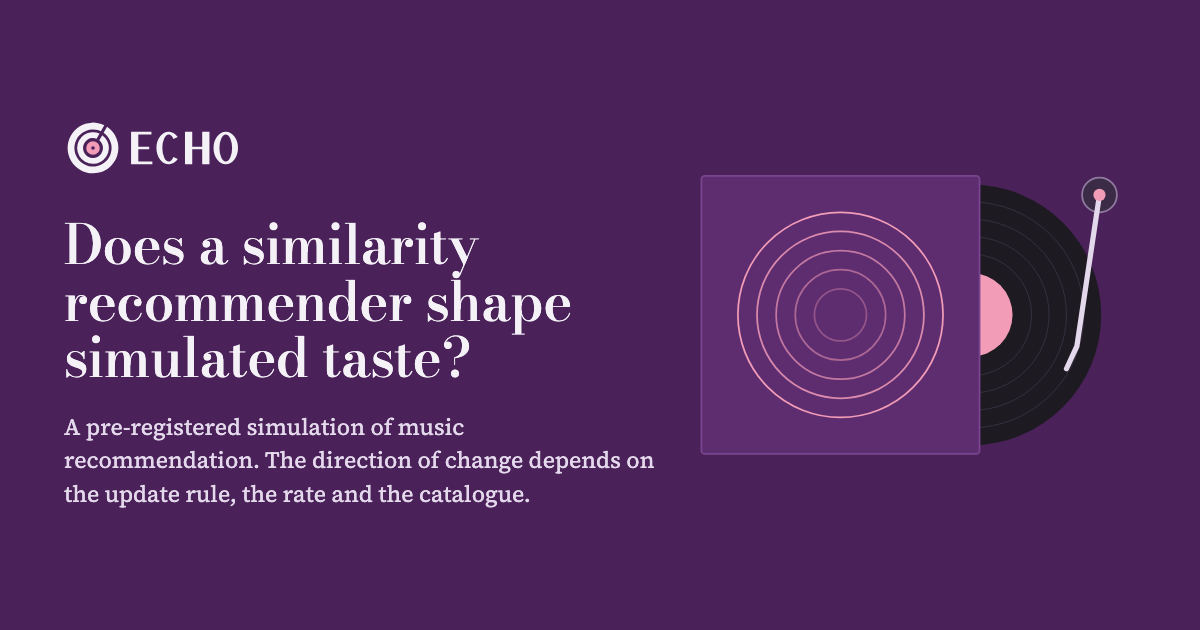
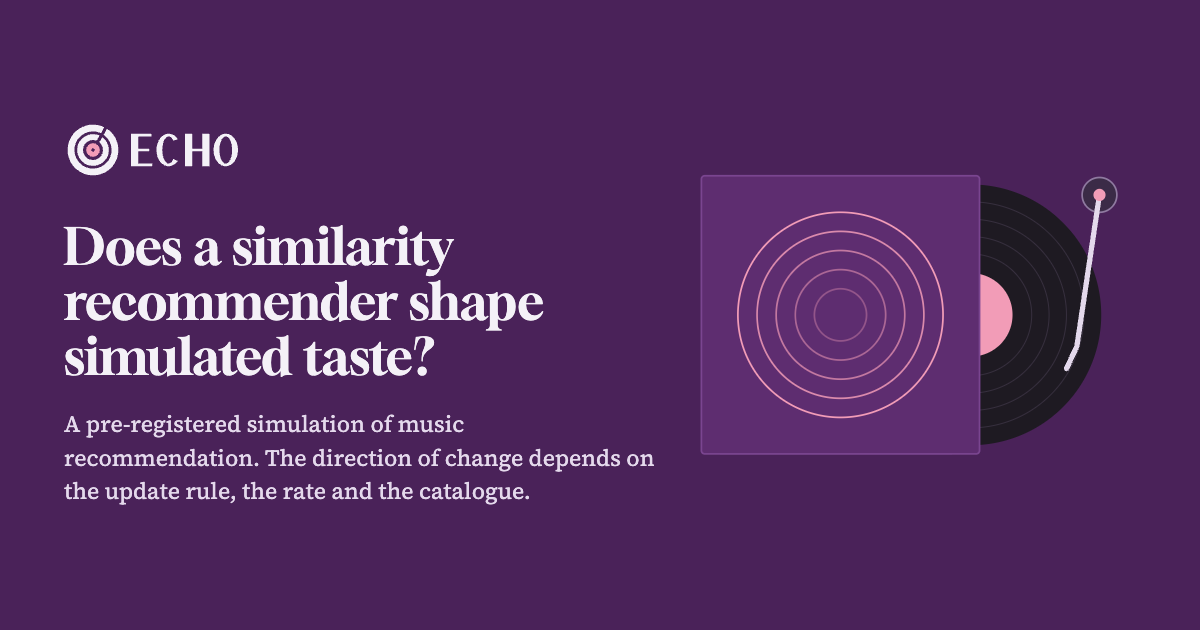
Demo: unique typeface pair across the labs (owner request 2026-11-26)

Changed region(s): [[0.0617, 0.3317, 0.4625, 0.6032], [0.0308, 0.6635, 0.555, 0.8143], [0.0617, 0.181, 0.2158, 0.2714]]

diff --git a/demo/src/style.css b/demo/src/style.css
@@ -2,15 +2,8 @@
 /* ECHO identity: record sleeve and liner notes. Lilac-white inner-sleeve paper,
    a plum sleeve band, vinyl objects and a rose label. Plan: demo/DESIGN.md.
    Fonts are self-hosted (nothing is fetched). */
-/* Bodoni Moda (OFL 1.1), Fontsource variable package, Latin subset only, weight and optical-size axes. */
-@font-face {
-  font-family: 'Bodoni Moda Variable';
-  font-style: normal;
-  font-display: swap;
-  font-weight: 400 900;
-  src: url(../node_modules/@fontsource-variable/bodoni-moda/files/bodoni-moda-latin-opsz-normal.woff2) format('woff2-variations');
-  unicode-range: U+0000-00FF,U+0131,U+0152-0153,U+02BB-02BC,U+02C6,U+02DA,U+02DC,U+0304,U+0308,U+0329,U+2000-206F,U+20AC,U+2122,U+2191,U+2193,U+2212,U+2215,U+FEFF,U+FFFD;
-}:root {
+/* Gloock (OFL 1.1) comes from the Fontsource package, Latin subset, its single weight 400 (imported in main.tsx). */
+:root {
   --paper: #f4f1f7; --card: #fbfafc; --ink: #24182c; --muted: #55495e; --line: #d8cfe0; --line-strong: #8d7f99;
   --plum: #4a2259; --plum-lift: #5e2d70; --vinyl: #1e1a22; --vinyl-lift: #2b2433; --rose: #f29cb7; --lilac: #c9b8d6;
   --link: #6b2f7d; --focus: #6b2f7d;
@@ -18,7 +11,7 @@
   --pol-RAND: #5a5650; --pol-POP: #8a5a00; --pol-SIM: #b3261e; --pol-MMR: #1f5f8b; --pol-EXPLORE: #2e7d4f;
   --measured: #12406b; --explor: #6a3d00; --sandbox: #7a1f5c; --assume: #3d4f2a;
   --error-bg: #fdecec; --error-fg: #8a1111;
-  --display: "Bodoni Moda Variable", "Didot", "Bodoni 72", Georgia, serif;
+  --display: "Gloock", "Didot", "Bodoni 72", Georgia, serif;
   --text: "Source Serif 4", "Iowan Old Style", Georgia, serif;
   --ease-out: cubic-bezier(0.23, 1, 0.32, 1);
   color-scheme: light;
@@ -28,8 +21,7 @@ html { -webkit-text-size-adjust: 100%; scroll-padding-top: 4.5rem; }
 body { margin: 0; background: var(--paper); color: var(--ink); font: 400 18px/1.62 var(--text); font-variant-numeric: tabular-nums; overflow-wrap: break-word; }
 .wrap { max-width: 70rem; margin: 0 auto; padding: 0 16px; }
 @media (min-width: 48rem) { .wrap { padding: 0 32px; } }
-h1, h2, h3 { font-family: var(--display); font-weight: 500; line-height: 1.12; color: inherit; }
-h3 { font-weight: 700; }
+h1, h2, h3 { font-family: var(--display); font-weight: 400; font-synthesis: none; line-height: 1.14; color: inherit; }
 p, li, dd, figcaption { max-width: 66ch; }
 a { color: var(--link); text-underline-offset: 0.18em; text-decoration-thickness: 1px; }
 :focus-visible { outline: 3px solid var(--focus); outline-offset: 2px; border-radius: 2px; }
@@ -54,7 +46,7 @@ nav::-webkit-scrollbar { display: none; }
 .hero { background: var(--plum); color: #f4f1f7; overflow: hidden; }
 .hero-grid { display: grid; gap: 1.5rem; padding-top: 2.5rem; padding-bottom: 2.5rem; align-items: center; }
 @media (min-width: 60rem) { .hero-grid { grid-template-columns: minmax(0, 1.05fr) minmax(0, 1fr); gap: 3rem; padding-top: 4rem; padding-bottom: 4rem; } }
-.hero h1 { font-size: clamp(2rem, 4.2vw, 3.15rem); line-height: 1.06; margin: 0 0 1.25rem; max-width: 22ch; letter-spacing: -0.005em; }
+.hero h1 { font-size: clamp(1.9rem, 3.9vw, 2.95rem); line-height: 1.1; margin: 0 0 1.25rem; max-width: 22ch; letter-spacing: 0.004em; }
 .hero .answer { font-size: clamp(1.15rem, 1.9vw, 1.4rem); line-height: 1.5; margin: 0 0 1.25rem; max-width: 40ch; color: #eee6f3; }
 .hero .byline { color: var(--lilac); font-size: 0.98rem; margin: 0; max-width: 52ch; }
 .hero-art { margin: 0; }
@@ -81,8 +73,8 @@ nav::-webkit-scrollbar { display: none; }
 
 /* Sections. */
 .wrap > section:not(.sandbox) { padding: 3rem 0 1.5rem; border-bottom: 1px solid var(--line); }
-section h2 { font-size: clamp(1.8rem, 3.4vw, 2.5rem); margin: 0.4rem 0 0.9rem; }
-h3.sub { margin-top: 2.25rem; font-size: 1.35rem; }
+section h2 { font-size: clamp(1.7rem, 3.2vw, 2.35rem); letter-spacing: 0.004em; margin: 0.4rem 0 0.9rem; }
+h3.sub { margin-top: 2.25rem; font-size: 1.3rem; }
 .lede { font-size: 1.12rem; }
 .status-label { color: var(--muted); border-left: 3px solid var(--plum); padding-left: 0.9rem; }
 .note, .meta { color: var(--muted); }
@@ -110,7 +102,7 @@ ul.label-legend li { margin: 0.55rem 0; }
 @media (min-width: 52rem) { .dials { grid-template-columns: 1fr 1fr; } }
 .dial-card { margin: 0; background: var(--vinyl); color: var(--lilac); border-radius: 10px; padding: 1.1rem 1.1rem 1rem;
   --pol-RAND: #d4cfc6; --pol-POP: #e8b04a; --pol-SIM: #ff8a7e; --pol-MMR: #8cc6f2; --pol-EXPLORE: #86d8a6; }
-.dial-title { font: 700 1.2rem/1.2 var(--display); color: #f4f1f7; margin: 0 0 0.5rem; }
+.dial-title { font: 400 1.15rem/1.25 var(--display); letter-spacing: 0.01em; color: #f4f1f7; margin: 0 0 0.5rem; }
 .dial svg { display: block; width: 100%; height: auto; max-width: 30rem; margin: 0 auto; overflow: visible; }
 .dial .disc-q { fill: var(--vinyl-lift); }
 .dial .groove { fill: none; stroke: #3c3446; stroke-width: 1; }
@@ -122,7 +114,7 @@ ul.label-legend li { margin: 0.55rem 0; }
 .dial.pending .groove-pol { opacity: 0; }
 .dial .needle { transform-box: view-box; transform-origin: 30px 296px; transition: transform 900ms var(--ease-out); }
 .dial .needle line { stroke: var(--c); stroke-width: 2; stroke-linecap: round; }
-.dial .needle-label { fill: var(--c); font: 700 13px var(--display); }
+.dial .needle-label { fill: var(--c); font: 400 13px var(--display); font-variant-numeric: tabular-nums; letter-spacing: 0.03em; }
 .dial .hub { fill: var(--rose); }
 ul.dial-legend { list-style: none; padding: 0; margin: 0.75rem 0 0; display: grid; grid-template-columns: repeat(auto-fill, minmax(12rem, 1fr)); gap: 0.2rem 1rem; font-size: 0.92rem; }
 ul.dial-legend li { display: flex; align-items: center; gap: 0.45rem; color: #ece3f2; }
@@ -131,7 +123,7 @@ ul.dial-legend .num { color: var(--lilac); }
 /* Tables. */
 .table-scroll { overflow-x: auto; max-width: 100%; }
 table { border-collapse: collapse; width: 100%; font-size: 0.95rem; }
-caption { text-align: left; font: 700 1.1rem/1.3 var(--display); padding: 0.4rem 0; }
+caption { text-align: left; font: 400 1.08rem/1.3 var(--display); padding: 0.4rem 0; }
 th, td { text-align: left; padding: 0.45rem 0.65rem; border-bottom: 1px solid var(--line); vertical-align: top; }
 thead th { border-bottom: 1.5px solid var(--ink); font-weight: 600; }
 td { white-space: nowrap; }
@@ -153,7 +145,7 @@ figcaption { font-size: 0.95rem; color: var(--muted); margin-top: 0.5rem; }
 .chart text { fill: var(--ink); font-family: var(--text); font-size: 12px; }
 .chart .tick-label, .chart .decision { fill: var(--muted); font-size: 11px; }
 .chart .axis-title { font-size: 12.5px; font-weight: 600; }
-.chart .group { font-weight: 700; font-size: 13px; font-family: var(--display); }
+.chart .group { font-weight: 400; font-size: 13px; font-family: var(--display); }
 .chart .band { fill: var(--band); }
 .chart .zero, .chart .tick { stroke: var(--muted); stroke-width: 1; }
 .chart .grid { stroke: var(--line); stroke-width: 1; }
@@ -178,7 +170,7 @@ figcaption { font-size: 0.95rem; color: var(--muted); margin-top: 0.5rem; }
 
 /* Controls. */
 .controls { display: flex; flex-wrap: wrap; gap: 0.9rem 1.5rem; align-items: end; border: 0; padding: 0; margin: 1.25rem 0; }
-.controls legend { font: 700 1.15rem/1.2 var(--display); padding: 0; margin-bottom: 0.4rem; }
+.controls legend { font: 400 1.12rem/1.25 var(--display); padding: 0; margin-bottom: 0.4rem; }
 fieldset.controls > legend { width: 100%; }
 .controls label { display: flex; flex-direction: column; gap: 0.25rem; font-size: 0.95rem; font-weight: 600; }
 fieldset.radios { border: 1px solid var(--line); border-radius: 6px; padding: 0.4rem 0.8rem; margin: 0; display: flex; flex-wrap: wrap; gap: 0.4rem 1rem; }
@@ -220,7 +212,7 @@ footer.site :focus-visible { outline-color: var(--rose); }
 .foot-brand img { display: block; height: 42px; width: auto; margin-bottom: 0.75rem; }
 .foot-brand p { margin: 0; }
 .foot-links { list-style: none; padding: 0; margin: 0; display: grid; gap: 0.1rem; align-content: start; }
-.foot-links a { display: inline-flex; align-items: center; min-height: 44px; font: 700 1.15rem/1 var(--display); }
+.foot-links a { display: inline-flex; align-items: center; min-height: 44px; font: 400 1.12rem/1 var(--display); }
 .foot-notes p { margin: 0 0 0.9rem; break-inside: avoid; }
 
 @media (prefers-reduced-motion: reduce) {

diff --git a/demo/tools/og/og.html b/demo/tools/og/og.html
@@ -2,12 +2,12 @@
 <!-- SPDX-License-Identifier: LicenseRef-ECHO-NC-Research-1.0 -->
 <!-- Source of public/brand/og.png (1200 x 630), rendered with Chrome headless. Shows no study number. -->
 <html><head><meta charset="utf-8"><style>
-@font-face{font-family:BM;src:url(../../node_modules/@fontsource-variable/bodoni-moda/files/bodoni-moda-latin-opsz-normal.woff2);font-weight:400 900}
+@font-face{font-family:GL;src:url(../../node_modules/@fontsource/gloock/files/gloock-latin-400-normal.woff2);font-weight:400}
 @font-face{font-family:SS;src:url(../../node_modules/@fontsource/source-serif-4/files/source-serif-4-latin-400-normal.woff2)}
 html,body{margin:0;width:1200px;height:630px;overflow:hidden}
 body{background:#4a2259;color:#f4f1f7;font-family:SS;display:grid;grid-template-columns:600px 1fr;gap:20px;padding:60px 64px;box-sizing:border-box;align-items:center}
 img{height:58px;display:block;margin-bottom:40px}
-h1{font:500 54px/1.05 BM;margin:0 0 24px}
+h1{font:400 50px/1.1 GL;letter-spacing:0.004em;margin:0 0 24px}
 p{font-size:23px;line-height:1.45;margin:0;color:#e4d9ec}
 svg{width:100%;height:auto;display:block}
 .vinyl{fill:#1e1a22}.groove{fill:none;stroke:#3a3242}.label{fill:#f29cb7}.sleeve{fill:#5e2d70;stroke:#7a4590;stroke-width:2}.ripple{fill:none;stroke:#f29cb7;stroke-width:2}

diff --git a/demo/src/App.tsx b/demo/src/App.tsx
@@ -75,7 +75,7 @@ export function App() {
               drafting and this page as a disclosed research and development assistant. It is not an author.
             </p>
             <p>
-              Typefaces: Bodoni Moda (Owen Earl) and Source Serif 4 (Frank Grie&szlig;hammer, Adobe), both under the SIL
+              Typefaces: Gloock (Duarte Pinto) and Source Serif 4 (Frank Grie&szlig;hammer, Adobe), both under the SIL
               Open Font License 1.1, self-hosted. Motion stops when your system asks for reduced motion.
             </p>
           </div>

diff --git a/demo/src/main.tsx b/demo/src/main.tsx
@@ -2,6 +2,7 @@
 import { StrictMode } from "react";
 import { createRoot } from "react-dom/client";
 import { App } from "./App";
+import "@fontsource/gloock/latin-400.css";
 import "@fontsource/source-serif-4/latin-400.css";
 import "@fontsource/source-serif-4/latin-600.css";
 import "./style.css";

diff --git a/demo/DESIGN.md b/demo/DESIGN.md
@@ -28,12 +28,18 @@ Links on paper are plum `#6B2F7D`.
 
 ## Type
 
-- **Bodoni Moda** (OFL 1.1), weights 500 and 700: headlines and the needle labels. A didone, the face of classical
-  record sleeves and printed programmes; its hairlines echo the needle.
+- **Gloock** (OFL 1.1), its single weight 400: headlines, captions, the needle labels (tabular figures). A
+  high-contrast serif with sharp, bracketed serifs, in the line of record-sleeve and concert-programme
+  titling, so the didone register of the brand stays; it is sturdier than a pure didone at small sizes, so the
+  needle labels and captions hold up on the plum band. Chosen on 2026-11-26 so that no two lab demos share a
+  family (it replaces Bodoni Moda, which another demo now uses). There is one weight, so hierarchy comes from size
+  and colour, and faux bold is disabled (`font-synthesis: none`).
 - **Source Serif 4** (OFL 1.1), weights 400 and 600: liner-notes body, tables and charts, with tabular figures. A
   book face, clearly distinct from the high-contrast display.
 
-Scale (1.25 on an 18 px body): 14.4, 18, 22.5, 28, 35, 44, 55 px. Body 66ch maximum.
+Scale (about 1.25 on an 18 px body): 14.4, 18, 20.7, 23.4, 37.6 (h2), 47.2 px (hero h1). Gloock is wider and has a
+taller x-height than Bodoni Moda and is set tight, so the h1 and h2 were cut by about 6 percent, given slightly open tracking and a
+little more line-height. Body 66ch maximum.
 
 ## Layout
 
@@ -41,7 +47,7 @@ Scale (1.25 on an 18 px body): 14.4, 18, 22.5, 28, 35, 44, 55 px. Body 66ch maxi
 +---------------------------------------------------------------------------+
 | (o) ECHO   Overview  Key result  Results  Taste map  Assumptions  ...      |  sticky, compact
 +=========================== sleeve plum band ===============================+
-| Question (Bodoni 55, pale)             |  [ sleeve ]( disc slides out )   |
+| Question (Gloock 47, pale)             |  [ sleeve ]( disc slides out )   |
 | Answer sentence (Source Serif 22)      |        tonearm swings in         |
 | author line                            |  "Illustration, not study data"  |
 +===========================================================================+

diff --git a/progress.md b/progress.md
@@ -598,3 +598,20 @@ Screenshots (desktop 1440 full page, phone 390 in an iframe wrapper, Chrome head
 **Risks and notes.** The Open Graph image URL is absolute to the hosting address in `demo/README.md`. Full-page desktop screenshots were capped at 16,000 px; the page bottom was checked in a separate viewport shot.
 
 **Next action.** The coordinator deploys the rebuilt demo when the owner approves.
+
+## 2026-11-26: Demo typeface unique across the labs (owner request)
+
+**What changed.** Following `labs/_shared/FONT-UNIQUE-brief.md` (no two lab demos share a family), the display face moved from Bodoni Moda to Gloock; Source Serif 4 stays as the text face. Gloock has one weight (400), so every display rule is set at 400 with `font-synthesis: none`; the hero h1 and section h2 were cut by about 6 percent (Gloock is wider, with a taller x-height), with slightly open tracking because the face is set tight; needle labels keep tabular figures (Gloock has `tnum`). The logo wordmark is geometric paths, not drawn from the display face, so it was not redrawn; the Open Graph image (its headline was set in the display face) was re-rendered. No number, data, fixture, test expectation or accessible name changed.
+
+```
+$ npm uninstall @fontsource-variable/bodoni-moda; npm_config_before=2026-11-12 npm install --save-exact @fontsource/gloock@5.3.0
+$ Chrome headless --window-size=1200,630 tools/og/og.html -> public/brand/og.png (1200 x 630)
+$ npm test                                             Tests 29 passed (29)
+$ npm run build                                        built; 852 KB on disk, 724,022 bytes
+$ node tools/a11y_check.mjs dist                       A11Y-CHECK PASS
+$ PYTHONPATH=src .venv/bin/python -m pytest -q tests/test_demo_export.py   4 passed
+```
+
+Screenshots (desktop 1440 and phone 390, full page, Chrome headless over CDP on local port 5243, server stopped after) were reviewed: a first pass with negative tracking looked cramped in the headline and needle labels; tracking opened slightly. No wrapping or overflow regressions seen.
+
+**Next action.** The coordinator deploys the rebuilt demo when the owner approves.

diff --git a/demo/README.md b/demo/README.md
@@ -18,7 +18,7 @@ The page has its own brand: a record sleeve and liner notes (plan and review in 
 
 | Component | Version | Licence | Use |
 |---|---|---|---|
-| Bodoni Moda (Owen Earl), via `@fontsource-variable/bodoni-moda` | 5.3.0 | SIL Open Font License 1.1 | display type; Latin subset of the weight and optical-size variable font, declared in `src/style.css`, self-hosted |
+| Gloock (Duarte Pinto), via `@fontsource/gloock` | 5.3.0 | SIL Open Font License 1.1 | display type, its single weight 400, Latin subset, imported in `src/main.tsx`, self-hosted; also used by `tools/og/og.html` |
 | Source Serif 4 (Frank Grießhammer, Adobe), via `@fontsource/source-serif-4` | 5.3.1 | SIL Open Font License 1.1 | body text, tables and charts, weights 400 and 600, Latin subset, self-hosted |
 
 ## Commands
